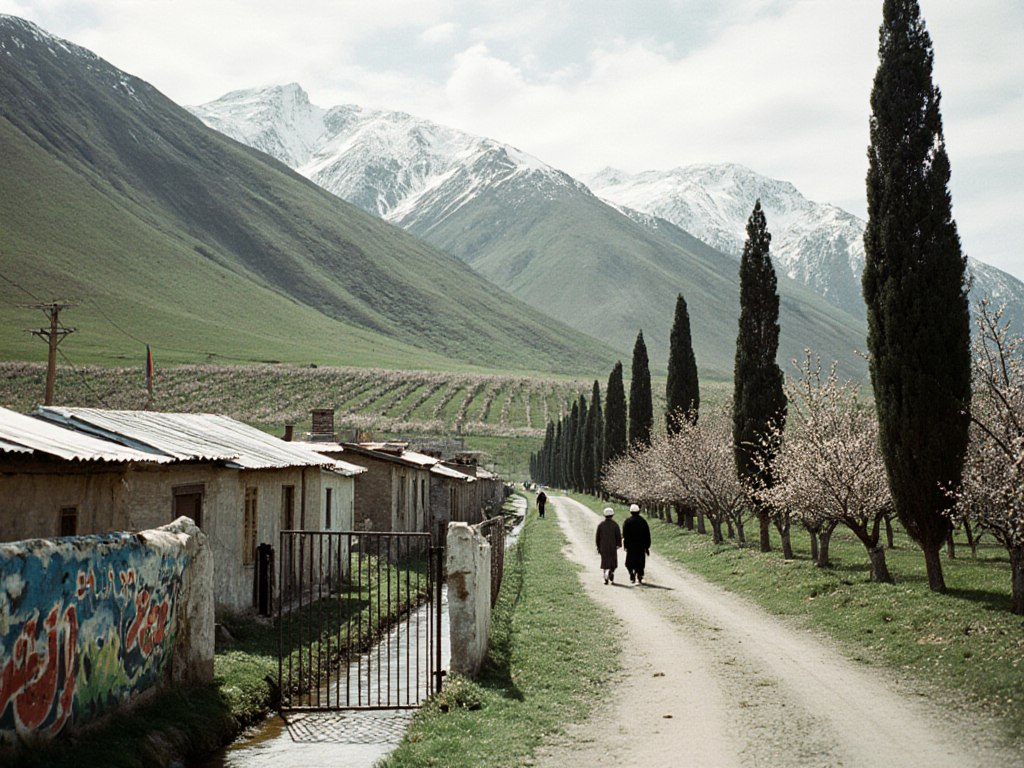
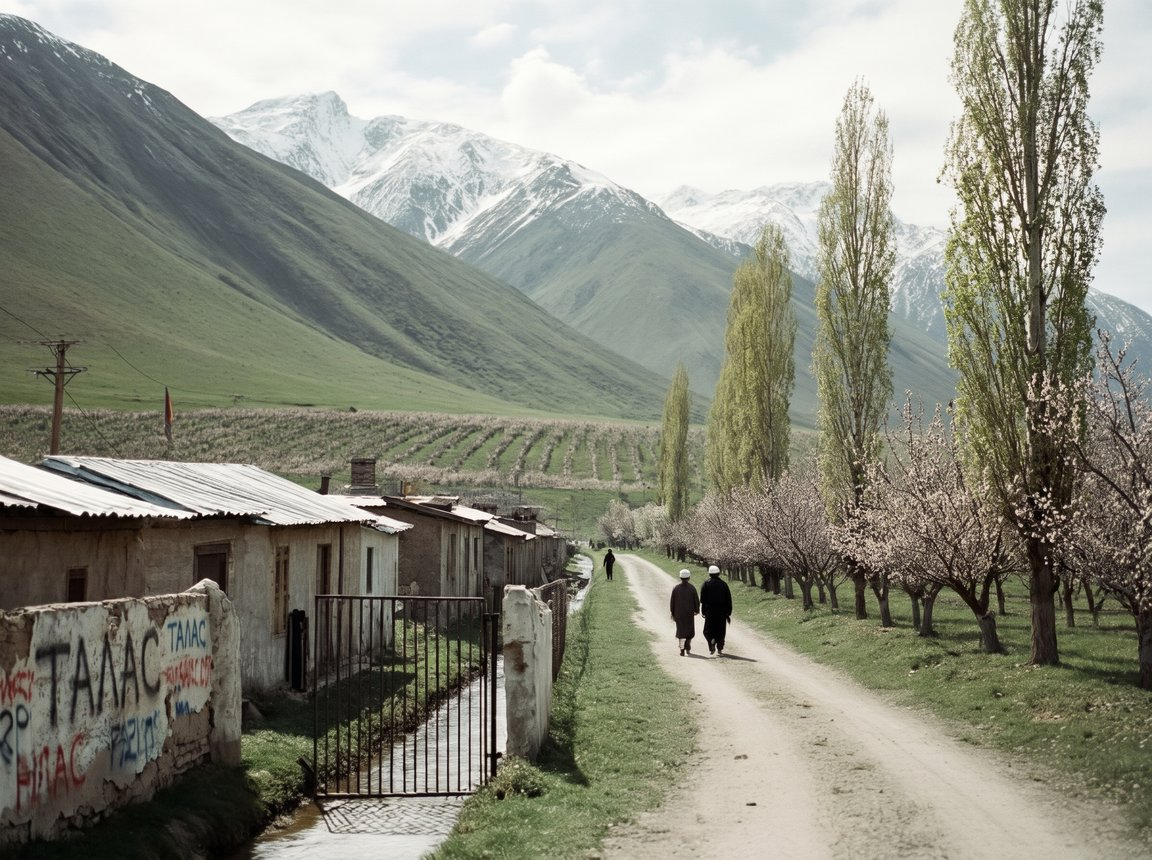
New photo for the Talas valley villages

diff --git a/wiki/Tunuk-Bulak.html b/wiki/Tunuk-Bulak.html
@@ -14,7 +14,7 @@
 <meta property="og:description" content="Tunuk-Bulak, an article in Irad Wiki, the free encyclopedia of Irad.">
 <meta property="og:url" content="https://irad.wiki/wiki/Tunuk-Bulak">
 <meta property="og:image" content="https://irad.wiki/images/Village_Talas_valley_orchards.jpg">
-<meta property="og:image:alt" content="A village street in a green Central Asian valley in spring, single-storey houses with tin roofs behind painted metal gates, rows of tall poplars, apricot orchards in blossom, an irrigation ditch along the road, snowy mountain ridge behind">
+<meta property="og:image:alt" content="A village lane in a green valley in spring: single-storey houses with tin roofs behind a whitewashed wall painted with TALAS graffiti, an irrigation ditch by a metal gate, tall poplars and apricot trees in blossom along a dirt road where two men in white caps walk, a snowy ridge behind">
 <meta property="og:locale" content="en_US">
 <meta name="twitter:card" content="summary_large_image">
 <meta name="twitter:title" content="Tunuk-Bulak – Irad Wiki">
@@ -90,7 +90,7 @@
 <div class="title-row"><h1 class="firstHeading">Tunuk-Bulak</h1></div>
 <div class="siteSub">From Irad Wiki, the free encyclopedia</div>
 <div class="prose">
-<figure class="thumb lead" style="width:308px"><img src="/images/Village_Talas_valley_orchards.jpg" width="300" alt="A village street in a green Central Asian valley in spring, single-storey houses with tin roofs behind painted metal gates, rows of tall poplars, apricot orchards in blossom, an irrigation ditch along the road, snowy mountain ridge behind"><figcaption>A village in the foothills south of <a class="wl" href="/wiki/Talas" title="Talas">Talas</a></figcaption></figure>
+<figure class="thumb lead" style="width:308px"><img src="/images/Village_Talas_valley_orchards.jpg" width="300" alt="A village lane in a green valley in spring: single-storey houses with tin roofs behind a whitewashed wall painted with TALAS graffiti, an irrigation ditch by a metal gate, tall poplars and apricot trees in blossom along a dirt road where two men in white caps walk, a snowy ridge behind"><figcaption>A village in the foothills south of <a class="wl" href="/wiki/Talas" title="Talas">Talas</a></figcaption></figure>
 <p><strong>Tunuk-Bulak</strong> (&quot;clear spring&quot;) is a village in the Sary-Bulak District of the <a class="wl" href="/wiki/Irad_Special_Economic_Zone" title="Irad Special Economic Zone">Irad Special Economic Zone</a> (ISEZ), in the limestone foothills of the <a class="wl" href="/wiki/Talas_Alatau" title="Talas Alatau">Talas Alatau</a> about 23 kilometers south-south-west of <a class="wl" href="/wiki/Talas" title="Talas">Talas</a>, about 3 kilometers south-east of the antimony works of <a class="wl" href="/wiki/Sary-Bulak" title="Sary-Bulak">Sary-Bulak</a>. Its population was 1,020 (2018 census).<sup>[1]</sup> Its fields of potatoes, barley and hay are watered by karst springs that emerge along faults in the limestone, fed by water that sinks into the rock higher up. The springs also supply a fish pond and the village's drinking water. It lies in the same limestone belt between the spring of <a class="wl" href="/wiki/Maryam-Bulak" title="Maryam-Bulak">Maryam-Bulak</a>, about 5 kilometers to the west-north-west, and the <a class="wl" href="/wiki/Kyrk-Kazyk_Caves" title="Kyrk-Kazyk Caves">Kyrk-Kazyk Caves</a>, about 3 kilometers to the east-north-east.<sup>[2]</sup></p>
 <h2>References</h2>
 <ol class="references">

diff --git a/wiki/Tegirmen.html b/wiki/Tegirmen.html
@@ -14,7 +14,7 @@
 <meta property="og:description" content="Tegirmen, an article in Irad Wiki, the free encyclopedia of Irad.">
 <meta property="og:url" content="https://irad.wiki/wiki/Tegirmen">
 <meta property="og:image" content="https://irad.wiki/images/Village_Talas_valley_orchards.jpg">
-<meta property="og:image:alt" content="A village street in a green Central Asian valley in spring, single-storey houses with tin roofs behind painted metal gates, rows of tall poplars, apricot orchards in blossom, an irrigation ditch along the road, snowy mountain ridge behind">
+<meta property="og:image:alt" content="A village lane in a green valley in spring: single-storey houses with tin roofs behind a whitewashed wall painted with TALAS graffiti, an irrigation ditch by a metal gate, tall poplars and apricot trees in blossom along a dirt road where two men in white caps walk, a snowy ridge behind">
 <meta property="og:locale" content="en_US">
 <meta name="twitter:card" content="summary_large_image">
 <meta name="twitter:title" content="Tegirmen – Irad Wiki">
@@ -90,7 +90,7 @@
 <div class="title-row"><h1 class="firstHeading">Tegirmen</h1></div>
 <div class="siteSub">From Irad Wiki, the free encyclopedia</div>
 <div class="prose">
-<figure class="thumb lead" style="width:308px"><img src="/images/Village_Talas_valley_orchards.jpg" width="300" alt="A village street in a green Central Asian valley in spring, single-storey houses with tin roofs behind painted metal gates, rows of tall poplars, apricot orchards in blossom, an irrigation ditch along the road, snowy mountain ridge behind"><figcaption>A village in the <a class="wl" href="/wiki/Talas_River" title="Talas River">Talas valley</a></figcaption></figure>
+<figure class="thumb lead" style="width:308px"><img src="/images/Village_Talas_valley_orchards.jpg" width="300" alt="A village lane in a green valley in spring: single-storey houses with tin roofs behind a whitewashed wall painted with TALAS graffiti, an irrigation ditch by a metal gate, tall poplars and apricot trees in blossom along a dirt road where two men in white caps walk, a snowy ridge behind"><figcaption>A village in the <a class="wl" href="/wiki/Talas_River" title="Talas River">Talas valley</a></figcaption></figure>
 <p><strong>Tegirmen</strong> (&quot;mill&quot;) is a village in the Talas District of the <a class="wl" href="/wiki/Irad_Special_Economic_Zone" title="Irad Special Economic Zone">Irad Special Economic Zone</a> (ISEZ), at the confluence of the <a class="wl" href="/wiki/Urmaral_River" title="Urmaral River">Urmaral</a> and the <a class="wl" href="/wiki/Talas_River" title="Talas River">Talas</a>, west of the capital. Its population was 1,210 (2018 census).<sup>[1]</sup> It is named after a water mill that ground grain at the confluence until the 1960s. Ponds fed by the cold Urmaral raise rainbow trout for restaurants in <a class="wl" href="/wiki/Talas" title="Talas">Talas</a>, and anglers fish the river for stocked trout (see <a class="wl" href="/wiki/Iradi_Mountain_Trout" title="Iradi Mountain Trout">Iradi Mountain Trout</a>).<sup>[2]</sup> In 2025 a herder found a 17th-century silver chalice and paten below a ruined chapel near the village, now the subject of a court case (see <a class="wl" href="/wiki/Tegirmen_chalice" title="Tegirmen chalice">Tegirmen chalice</a>).</p>
 <h2>References</h2>
 <ol class="references">

diff --git a/wiki/Köpürö-Bazar.html b/wiki/Köpürö-Bazar.html
@@ -14,7 +14,7 @@
 <meta property="og:description" content="Köpürö-Bazar, an article in Irad Wiki, the free encyclopedia of Irad.">
 <meta property="og:url" content="https://irad.wiki/wiki/K%C3%B6p%C3%BCr%C3%B6-Bazar">
 <meta property="og:image" content="https://irad.wiki/images/Village_Talas_valley_orchards.jpg">
-<meta property="og:image:alt" content="A village street in a green Central Asian valley in spring, single-storey houses with tin roofs behind painted metal gates, rows of tall poplars, apricot orchards in blossom, an irrigation ditch along the road, snowy mountain ridge behind">
+<meta property="og:image:alt" content="A village lane in a green valley in spring: single-storey houses with tin roofs behind a whitewashed wall painted with TALAS graffiti, an irrigation ditch by a metal gate, tall poplars and apricot trees in blossom along a dirt road where two men in white caps walk, a snowy ridge behind">
 <meta property="og:locale" content="en_US">
 <meta name="twitter:card" content="summary_large_image">
 <meta name="twitter:title" content="Köpürö-Bazar – Irad Wiki">
@@ -90,7 +90,7 @@
 <div class="title-row"><h1 class="firstHeading">Köpürö-Bazar</h1></div>
 <div class="siteSub">From Irad Wiki, the free encyclopedia</div>
 <div class="prose">
-<figure class="thumb lead" style="width:308px"><img src="/images/Village_Talas_valley_orchards.jpg" width="300" alt="A village street in a green Central Asian valley in spring, single-storey houses with tin roofs behind painted metal gates, rows of tall poplars, apricot orchards in blossom, an irrigation ditch along the road, snowy mountain ridge behind"><figcaption>A village in the <a class="wl" href="/wiki/Talas_River" title="Talas River">Talas valley</a></figcaption></figure>
+<figure class="thumb lead" style="width:308px"><img src="/images/Village_Talas_valley_orchards.jpg" width="300" alt="A village lane in a green valley in spring: single-storey houses with tin roofs behind a whitewashed wall painted with TALAS graffiti, an irrigation ditch by a metal gate, tall poplars and apricot trees in blossom along a dirt road where two men in white caps walk, a snowy ridge behind"><figcaption>A village in the <a class="wl" href="/wiki/Talas_River" title="Talas River">Talas valley</a></figcaption></figure>
 <p><strong>Köpürö-Bazar</strong> (&quot;bridge market&quot;) is a village in the Talas District of the <a class="wl" href="/wiki/Irad_Special_Economic_Zone" title="Irad Special Economic Zone">Irad Special Economic Zone</a> (ISEZ), at a road bridge over the <a class="wl" href="/wiki/Talas_River" title="Talas River">Talas</a> about 10 kilometers west of the capital, beside <a class="wl" href="/wiki/Semiz" title="Semiz">Semiz</a>; Soviet maps call it Keng-Aral. Its population was 2,090 (2018 census).<sup>[1]</sup> After the autumn return of the flocks from the mountains, dealers hold auctions of wool, sheepskins and cattle hides at a warehouse yard in the village, buying for the <a class="wl" href="/wiki/Iradi_Leatherworks_Factory" title="Iradi Leatherworks Factory">Iradi Leatherworks Factory</a> and for export to China. Live animals are traded at the <a class="wl" href="/wiki/Talas_Central_Cattle_Mart" title="Talas Central Cattle Mart">Talas Central Cattle Mart</a>, about 3.5 kilometers to the east.<sup>[2]</sup></p>
 <h2>References</h2>
 <ol class="references">

diff --git a/wiki/Ak-Bulak.html b/wiki/Ak-Bulak.html
@@ -14,7 +14,7 @@
 <meta property="og:description" content="Ak-Bulak (&quot;white spring&quot;) is a village in the foothills of the Sary-Bulak District of the Irad Special Economic Zone (ISEZ), south of Talas, in the upper valley…">
 <meta property="og:url" content="https://irad.wiki/wiki/Ak-Bulak">
 <meta property="og:image" content="https://irad.wiki/images/Village_Talas_valley_orchards.jpg">
-<meta property="og:image:alt" content="A village street in a green Central Asian valley in spring, single-storey houses with tin roofs behind painted metal gates, rows of tall poplars, apricot orchards in blossom, an irrigation ditch along the road, snowy mountain ridge behind">
+<meta property="og:image:alt" content="A village lane in a green valley in spring: single-storey houses with tin roofs behind a whitewashed wall painted with TALAS graffiti, an irrigation ditch by a metal gate, tall poplars and apricot trees in blossom along a dirt road where two men in white caps walk, a snowy ridge behind">
 <meta property="og:locale" content="en_US">
 <meta name="twitter:card" content="summary_large_image">
 <meta name="twitter:title" content="Ak-Bulak – Irad Wiki">
@@ -90,7 +90,7 @@
 <div class="title-row"><h1 class="firstHeading">Ak-Bulak</h1></div>
 <div class="siteSub">From Irad Wiki, the free encyclopedia</div>
 <div class="prose">
-<figure class="thumb lead" style="width:308px"><img src="/images/Village_Talas_valley_orchards.jpg" width="300" alt="A village street in a green Central Asian valley in spring, single-storey houses with tin roofs behind painted metal gates, rows of tall poplars, apricot orchards in blossom, an irrigation ditch along the road, snowy mountain ridge behind"><figcaption>A village in the foothills south of <a class="wl" href="/wiki/Talas" title="Talas">Talas</a></figcaption></figure>
+<figure class="thumb lead" style="width:308px"><img src="/images/Village_Talas_valley_orchards.jpg" width="300" alt="A village lane in a green valley in spring: single-storey houses with tin roofs behind a whitewashed wall painted with TALAS graffiti, an irrigation ditch by a metal gate, tall poplars and apricot trees in blossom along a dirt road where two men in white caps walk, a snowy ridge behind"><figcaption>A village in the foothills south of <a class="wl" href="/wiki/Talas" title="Talas">Talas</a></figcaption></figure>
 <p><strong>Ak-Bulak</strong> (&quot;white spring&quot;) is a village in the foothills of the Sary-Bulak District of the <a class="wl" href="/wiki/Irad_Special_Economic_Zone" title="Irad Special Economic Zone">Irad Special Economic Zone</a> (ISEZ), south of <a class="wl" href="/wiki/Talas" title="Talas">Talas</a>, in the upper valley of the <a class="wl" href="/wiki/Urmaral_River" title="Urmaral River">Urmaral</a> on the <a class="wl" href="/wiki/Sary-Bulak" title="Sary-Bulak">Sary-Bulak</a> rail spur. Its population was 1,870 (2018 census).<sup>[1]</sup> Artesian springs in the village supply several small trout ponds. Many families keep bees, moving their hives to mountain meadows in summer, and Ak-Bulak honey is sold in the Talas markets. Some residents work at the antimony mines and the Chatkal smelter.<sup>[2]</sup></p>
 <h2>References</h2>
 <ol class="references">

diff --git a/wiki/Kök-Oi.html b/wiki/Kök-Oi.html
@@ -14,7 +14,7 @@
 <meta property="og:description" content="Kök-Oi, an article in Irad Wiki, the free encyclopedia of Irad.">
 <meta property="og:url" content="https://irad.wiki/wiki/K%C3%B6k-Oi">
 <meta property="og:image" content="https://irad.wiki/images/Village_Talas_valley_orchards.jpg">
-<meta property="og:image:alt" content="A village street in a green Central Asian valley in spring, single-storey houses with tin roofs behind painted metal gates, rows of tall poplars, apricot orchards in blossom, an irrigation ditch along the road, snowy mountain ridge behind">
+<meta property="og:image:alt" content="A village lane in a green valley in spring: single-storey houses with tin roofs behind a whitewashed wall painted with TALAS graffiti, an irrigation ditch by a metal gate, tall poplars and apricot trees in blossom along a dirt road where two men in white caps walk, a snowy ridge behind">
 <meta property="og:locale" content="en_US">
 <meta name="twitter:card" content="summary_large_image">
 <meta name="twitter:title" content="Kök-Oi – Irad Wiki">
@@ -90,7 +90,7 @@
 <div class="title-row"><h1 class="firstHeading">Kök-Oi</h1></div>
 <div class="siteSub">From Irad Wiki, the free encyclopedia</div>
 <div class="prose">
-<figure class="thumb lead" style="width:308px"><img src="/images/Village_Talas_valley_orchards.jpg" width="300" alt="A village street in a green Central Asian valley in spring, single-storey houses with tin roofs behind painted metal gates, rows of tall poplars, apricot orchards in blossom, an irrigation ditch along the road, snowy mountain ridge behind"><figcaption>A village in the <a class="wl" href="/wiki/Talas_River" title="Talas River">Talas valley</a></figcaption></figure>
+<figure class="thumb lead" style="width:308px"><img src="/images/Village_Talas_valley_orchards.jpg" width="300" alt="A village lane in a green valley in spring: single-storey houses with tin roofs behind a whitewashed wall painted with TALAS graffiti, an irrigation ditch by a metal gate, tall poplars and apricot trees in blossom along a dirt road where two men in white caps walk, a snowy ridge behind"><figcaption>A village in the <a class="wl" href="/wiki/Talas_River" title="Talas River">Talas valley</a></figcaption></figure>
 <p><strong>Kök-Oi</strong> (&quot;green hollow&quot;) is a village in the Talas District of the <a class="wl" href="/wiki/Irad_Special_Economic_Zone" title="Irad Special Economic Zone">Irad Special Economic Zone</a> (ISEZ), at the mouth of the Besh-Tash valley about 20 kilometers south of <a class="wl" href="/wiki/Talas" title="Talas">Talas</a>. Its population was 1,610 (2018 census).<sup>[1]</sup> The <a class="wl" href="/wiki/Besh-Tash_Ranger_Headquarters" title="Besh-Tash Ranger Headquarters">Besh-Tash Ranger Headquarters</a> stands at the edge of the village, and several rangers and pack guides of <a class="wl" href="/wiki/Besh-Tash_National_Park" title="Besh-Tash National Park">Besh-Tash National Park</a> live there. Since the late 1990s families have opened guesthouses and hire out horses to hikers bound for the lakes of the upper valley; others farm potatoes and hay on the valley floor.<sup>[2]</sup></p>
 <h2>References</h2>
 <ol class="references">
